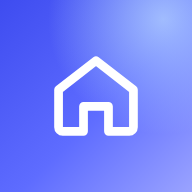
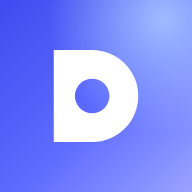
Add files via upload

Changed region(s): [[0.25, 0.25, 0.7188, 0.75]]

diff --git a/index.html b/index.html
@@ -16,7 +16,7 @@
 <script>
 /* ===== CONFIG: wklej tutaj swój klucz PostHog (Project API key, zaczyna się od phc_) ===== */
 window.CM_CONFIG = {
-  posthogKey: "phc_AzAKaGfacN2V5A5Ankr5A58UFmyE5h3pjNqu3cZGo8nR",                              // np. "phc_AbC123..."  (puste = statystyki wyłączone)
+  posthogKey: "",                              // np. "phc_AbC123..."  (puste = statystyki wyłączone)
   posthogHost: "https://eu.i.posthog.com",     // EU Cloud; dla US: https://us.i.posthog.com
   feedbackUrl: "https://t.me/deleniv",         // dokąd prowadzi „Napisz opinię”
   privacyUrl: "/privacy.html"
@@ -452,8 +452,47 @@ a.btn{text-decoration:none}
 .sr{position:absolute;width:1px;height:1px;overflow:hidden;clip:rect(0 0 0 0)}
 body.dark .ob-chip,body.dark .ob-row{background:rgba(255,255,255,.06);border-color:rgba(255,255,255,.08)}body.dark .ob-chip[aria-pressed="true"]{background:rgba(135,145,255,.16);color:#C9CEFF}
 body.dark .ob-in-amt,body.dark .ob-in-date input{background:rgba(255,255,255,.08)}
+
+/* ---------- splash: logo reveal, no progress bars ---------- */
+#splash{position:fixed;inset:0;z-index:100;display:grid;place-items:center;overflow:hidden;color:#fff;
+  background:radial-gradient(60% 45% at 85% 8%,rgba(170,210,255,.55),transparent 70%),radial-gradient(55% 45% at 5% 85%,rgba(150,120,255,.45),transparent 70%),linear-gradient(165deg,#3442E8 0%,#5866FF 55%,#8791FF 100%);
+  transition:opacity .55s ease,visibility .55s;}
+#splash.out{opacity:0;visibility:hidden}
+#splash .sp-glow{position:absolute;width:520px;height:520px;border-radius:50%;background:radial-gradient(circle,rgba(255,255,255,.28),transparent 62%);animation:spGlow 2.4s ease-in-out infinite alternate}
+#splash .sp-orb{position:absolute;border-radius:50%;filter:blur(2px);background:radial-gradient(circle at 30% 30%,rgba(255,255,255,.55),rgba(255,255,255,.08) 70%);animation:spFloat 6s ease-in-out infinite alternate}
+#splash .sp-orb.a{width:90px;height:90px;left:12%;top:18%}
+#splash .sp-orb.b{width:54px;height:54px;right:14%;top:30%;animation-delay:-2s}
+#splash .sp-orb.c{width:130px;height:130px;right:-30px;bottom:14%;animation-delay:-4s;opacity:.7}
+#splash .sp-in{position:relative;display:grid;justify-items:center;gap:22px;transition:transform .6s cubic-bezier(.2,.8,.2,1),filter .6s}
+#splash.out .sp-in{transform:scale(1.08);filter:blur(6px)}
+#splash .sp-tile{width:108px;height:108px;border-radius:34px;display:grid;place-items:center;background:rgba(255,255,255,.18);border:1px solid rgba(255,255,255,.5);
+  box-shadow:inset 0 0 30px rgba(255,255,255,.35);-webkit-backdrop-filter:blur(18px);backdrop-filter:blur(18px);animation:spPop .9s cubic-bezier(.2,1.4,.4,1) both}
+#splash .sp-tile svg{width:100px;height:100px;overflow:visible}
+#splash .sp-d{transform-origin:50px 50px;transform:scale(.4);opacity:0;animation:spD .7s .25s cubic-bezier(.2,1.5,.4,1) forwards}
+#splash .sp-hole{transform-origin:48px 50px;transform:scale(0);animation:spCoin .55s .8s cubic-bezier(.2,1.6,.4,1) forwards}
+#splash .sp-word{display:flex;font:700 40px/1 "Urbanist","Helvetica Neue",Arial,sans-serif;letter-spacing:-.02em}
+#splash .sp-word span{display:inline-block;opacity:0;transform:translateY(16px);animation:spUp .6s cubic-bezier(.2,.8,.2,1) forwards}
+#splash .sp-tag{font:500 15px/1.4 "Manrope","Helvetica Neue",Arial,sans-serif;color:rgba(255,255,255,.82);opacity:0;animation:spFade .6s .85s ease forwards;text-align:center;padding:0 24px}
+@keyframes spPop{0%{opacity:0;transform:scale(.55) rotate(-8deg)}100%{opacity:1;transform:none}}
+@keyframes spD{to{transform:none;opacity:1}}
+@keyframes spCoin{to{transform:scale(1)}}
+@keyframes spUp{to{opacity:1;transform:none}}
+@keyframes spFade{to{opacity:1}}
+@keyframes spGlow{from{transform:scale(.85);opacity:.7}to{transform:scale(1.1);opacity:1}}
+@keyframes spFloat{from{transform:translate(0,0)}to{transform:translate(14px,-22px)}}
+@media (prefers-reduced-motion:reduce){#splash *{animation-duration:.01s!important;animation-delay:0s!important}#splash .sp-d,#splash .sp-hole{transform:none;opacity:1}}
+.ob-logo.brand svg{width:80px;height:80px}.inst-app svg{width:72px;height:72px}
 </style>
 
+<div id="splash" role="status" aria-label="DeSave">
+  <div class="sp-glow"></div><div class="sp-orb a"></div><div class="sp-orb b"></div><div class="sp-orb c"></div>
+  <div class="sp-in">
+    <div class="sp-tile"><svg viewBox="0 0 100 100" aria-hidden="true"><defs><mask id="spHole"><rect width="100" height="100" fill="#fff"/><circle class="sp-hole" cx="48" cy="50" r="9" fill="#000"/></mask></defs><path class="sp-d" fill="#fff" mask="url(#spHole)" d="M28 26h20a24 24 0 0 1 0 48H28z"/></svg></div>
+    <div class="sp-word" aria-hidden="true"><span style="animation-delay:.45s">D</span><span style="animation-delay:.5s">e</span><span style="animation-delay:.58s">S</span><span style="animation-delay:.63s">a</span><span style="animation-delay:.68s">v</span><span style="animation-delay:.73s">e</span></div>
+    <div class="sp-tag" id="spTag">Wszystkie opłaty w jednym miejscu</div>
+  </div>
+</div>
+<script>(function(){try{var st=JSON.parse(localStorage.getItem("co-miesiac-v4-c")||"null"),l=st&&st.lang||((navigator.language||"pl").toLowerCase().slice(0,2));var m={uk:"Усі платежі в одному місці",en:"All your bills in one place"};if(m[l])document.getElementById("spTag").textContent=m[l];}catch(e){}window.__spT0=Date.now();})();</script>
 <div class="ambient" aria-hidden="true"></div>
 <div class="app"><main id="view"></main></div>
 <nav class="tabs" id="tabs" aria-label="Menu"></nav>
@@ -923,7 +962,7 @@ function openInstall(src){
   const ios=`<ol class="inst-steps">${step(1,`${t("inst_ios1")} <span class="inst-ic">${svg("M12 3v12M8 7l4-4 4 4M5 11v9h14v-9",2)}</span>`)}${step(2,t("inst_ios2"))}${step(3,t("inst_ios3"))}</ol>`;
   const and=installEvt?"":`<ol class="inst-steps">${step(1,t("inst_and1"))}${step(2,t("inst_and2"))}${step(3,t("inst_and3"))}</ol>`;
   const body=pf==="ios"?ios:pf==="android"?and:(installEvt?"":`<p class="lead" style="margin:0">${t("inst_desk")}</p>`);
-  openSheet(`<div class="inst-hero"><div class="inst-app">${svg(ICONS.home,1.9)}</div></div><h3 style="text-align:center">${t("inst_h")}</h3><p style="margin:0;font-size:14px;line-height:1.5;color:var(--ink-2);text-align:center">${t("inst_t")}</p>${body}
+  openSheet(`<div class="inst-hero"><div class="inst-app">${BRAND}</div></div><h3 style="text-align:center">${t("inst_h")}</h3><p style="margin:0;font-size:14px;line-height:1.5;color:var(--ink-2);text-align:center">${t("inst_t")}</p>${body}
     <div style="display:grid;gap:8px">${installEvt?`<button type="button" class="btn primary" data-inst="go">${t("inst_btn")}</button>`:""}<button type="button" class="btn ${installEvt?"soft":"primary"}" data-inst="later">${installEvt?t("inst_later"):t("inst_done")}</button></div>`);
   track("install_prompt_shown",{platform:pf,native:!!installEvt,source:src||"auto"});
   S.installSeen=true; save();
@@ -935,6 +974,7 @@ function openInstall(src){
 function maybeInstall(){ if(!isStandalone()&&!S.installSeen&&!window.__CM_VARIANT__) setTimeout(()=>openInstall("after_onboarding"),400); }
 const FEEDBACK_URL=CFG.feedbackUrl||"https://t.me/deleniv";
 
+const BRAND=`<svg viewBox="0 0 100 100" aria-hidden="true"><path fill="currentColor" fill-rule="evenodd" d="M28 26h20a24 24 0 0 1 0 48H28zM48 41a9 9 0 1 0 0 18 9 9 0 0 0 0-18z"/></svg>`;
 /* ---------- onboarding ---------- */
 let obStep=0, obPicks=[], obVals={};
 const OB_STEPS=5;
@@ -942,7 +982,7 @@ const QUICK=[["rent","dom",1],["mortgage","dom",1],["power","media",2],["gas","m
 const LANG_OPTS=[["pl","Polski","Polish · polski"],["uk","Українська","Ukrainian · ukraiński"],["en","English","English · angielski"]];
 function nextDay10(){ const x=today(); let d=new Date(x.getFullYear(),x.getMonth(),10); if(d<x) d=new Date(x.getFullYear(),x.getMonth()+1,10); return iso(d); }
 function obArt(){
-  if(obStep===0) return `<div class="ob-logo">${svg(ICONS.home,1.8)}</div>`;
+  if(obStep===0) return `<div class="ob-logo brand">${BRAND}</div>`;
   if(obStep===1){ const m=(k,c,a)=>`<div class="ob-mini">${tile({k,cat:c})}<b>${esc(t("p_"+k))}</b><span class="num">${a} zł</span></div>`;
     return `<div class="ob-stack">${m("rent","dom","650")}${m("power","media","184")}${m("netflix","rozrywka","49")}</div>`; }
   if(obStep===2) return `<div style="display:grid;justify-items:center;width:100%"><div class="ob-askmini"><div class="top-l">${tile({k:"netflix",cat:"rozrywka"})}<div><small>${(w=>w.charAt(0).toUpperCase()+w.slice(1))(t("tomorrow"))} · 49,00 zł</small><b>Netflix</b></div></div><p>${t("ask_q")}</p><div class="ab"><span>${t("ask_yes")}</span><span>${t("ask_no")}</span></div></div><span class="ob-save">${svg(UI.arrowDown,2.2)}${t("can_save")}: 588 zł ${t("per_y")}</span></div>`;
@@ -1250,6 +1290,9 @@ function openProfile(scroll){
 function keepProfileDraft(sh){ const pr=S.profile, q=s=>sh.querySelector(s); if(!q("#pf-name")) return; pr.name=q("#pf-name").value.trim(); pr.home=q("#pf-home").value.trim(); pr.remind=Number(q("#pf-remind").value); pr.notif=q("#pf-notif").checked; pr.hide=q("#pf-hide").checked; pr.photo=draftPhoto||null; }
 
 render();
+(function(){ const sp=document.getElementById("splash"); if(!sp) return; const t0=window.__spT0||Date.now(); let done=false;
+  const hide=()=>{ if(done) return; done=true; const wait=Math.max(0,(S.onboarded?1600:2300)-(Date.now()-t0)); setTimeout(()=>{ sp.classList.add("out"); setTimeout(()=>sp.remove(),650); },wait); };
+  try{ (document.fonts&&document.fonts.ready?document.fonts.ready:Promise.resolve()).then(hide,hide); }catch(e){ hide(); } setTimeout(hide,3000); })();
 track("app_opened",{standalone:isStandalone(),platform:platform(),onboarded:!!S.onboarded,items:S.items.length,expenses:S.expenses.length,demo:!!S.demo,variant:VARIANT});
 })();
 </script>

diff --git a/sw.js b/sw.js
@@ -1,5 +1,5 @@
 /* Service worker: app shell offline, always-fresh HTML when online. Bump VERSION after each deploy if assets change. */
-const VERSION="cm-v3";
+const VERSION="cm-v5";
 const SHELL=["/","/manifest.webmanifest","/icons/icon-192.png","/icons/icon-512.png","/icons/apple-touch-icon.png"];
 self.addEventListener("install",e=>{ e.waitUntil(caches.open(VERSION).then(c=>c.addAll(SHELL)).then(()=>self.skipWaiting())); });
 self.addEventListener("activate",e=>{ e.waitUntil(caches.keys().then(ks=>Promise.all(ks.filter(k=>k!==VERSION).map(k=>caches.delete(k)))).then(()=>self.clients.claim())); });
